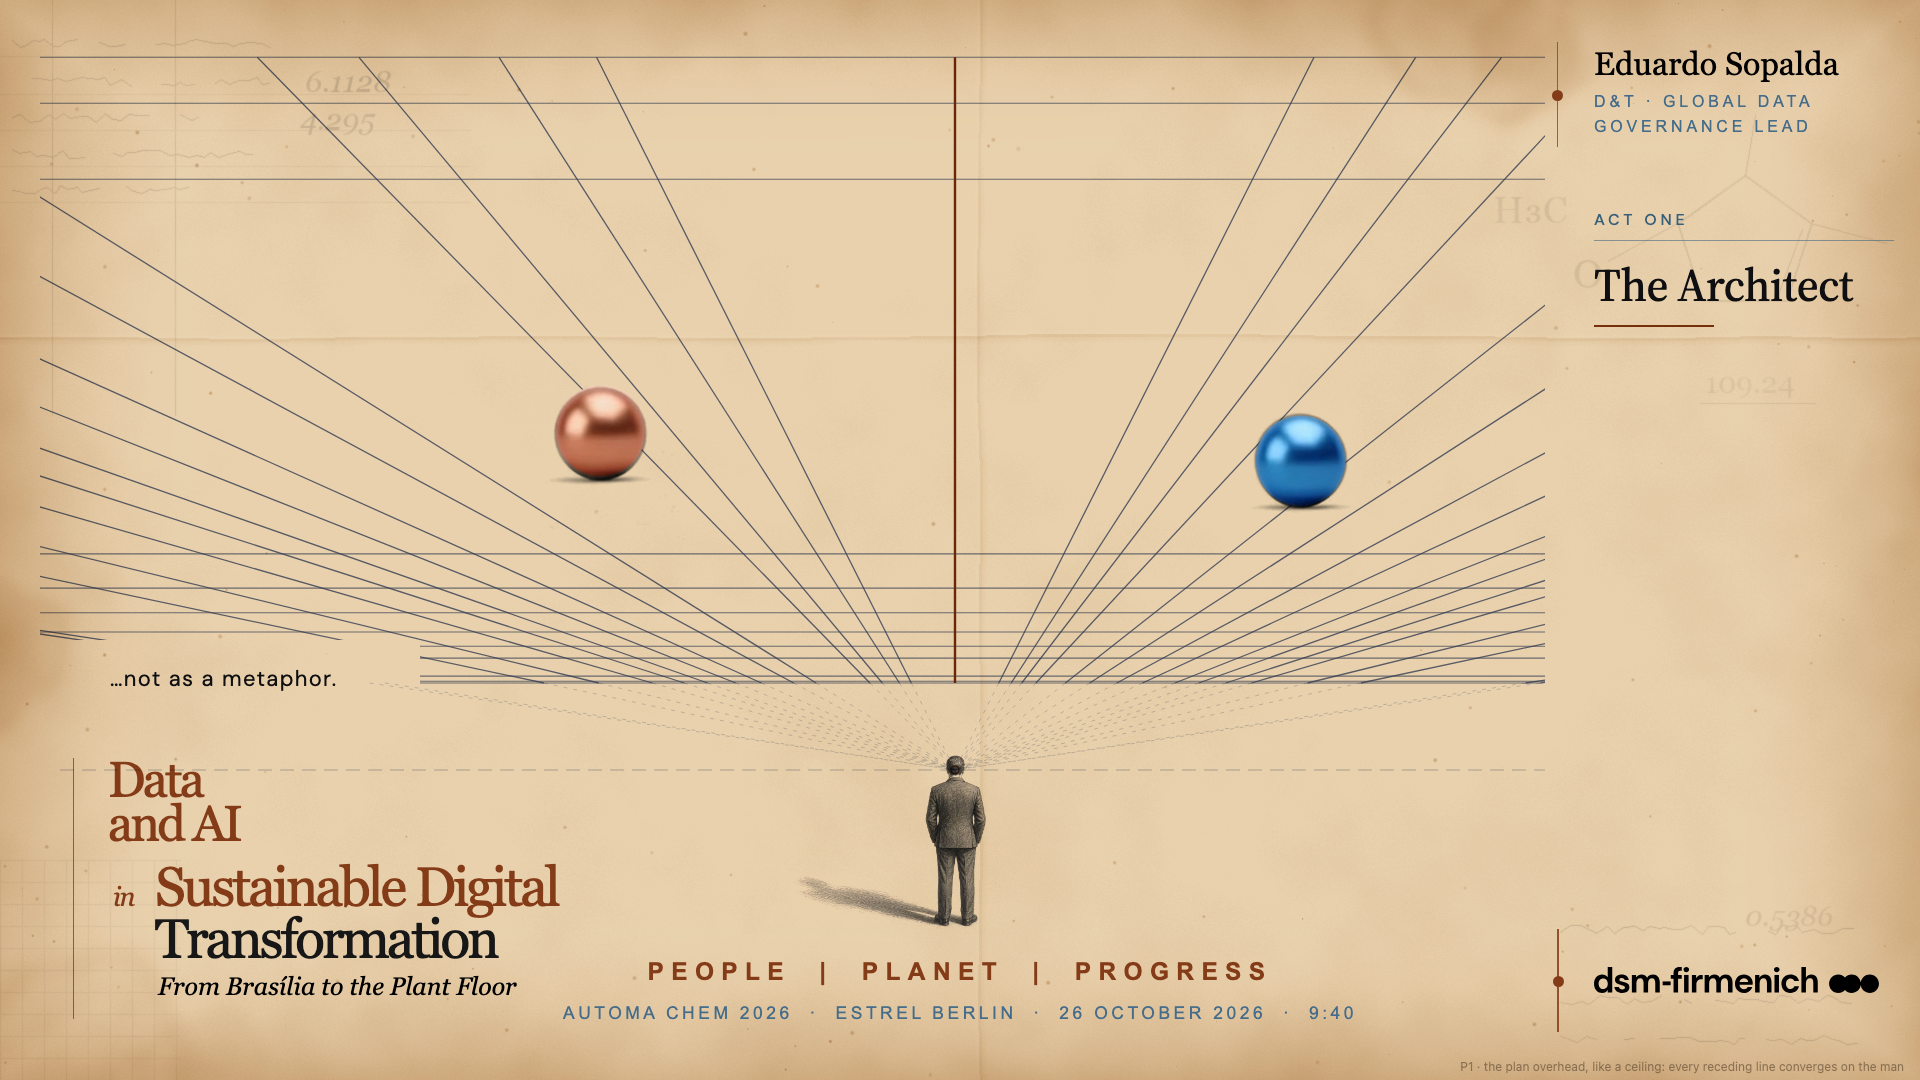
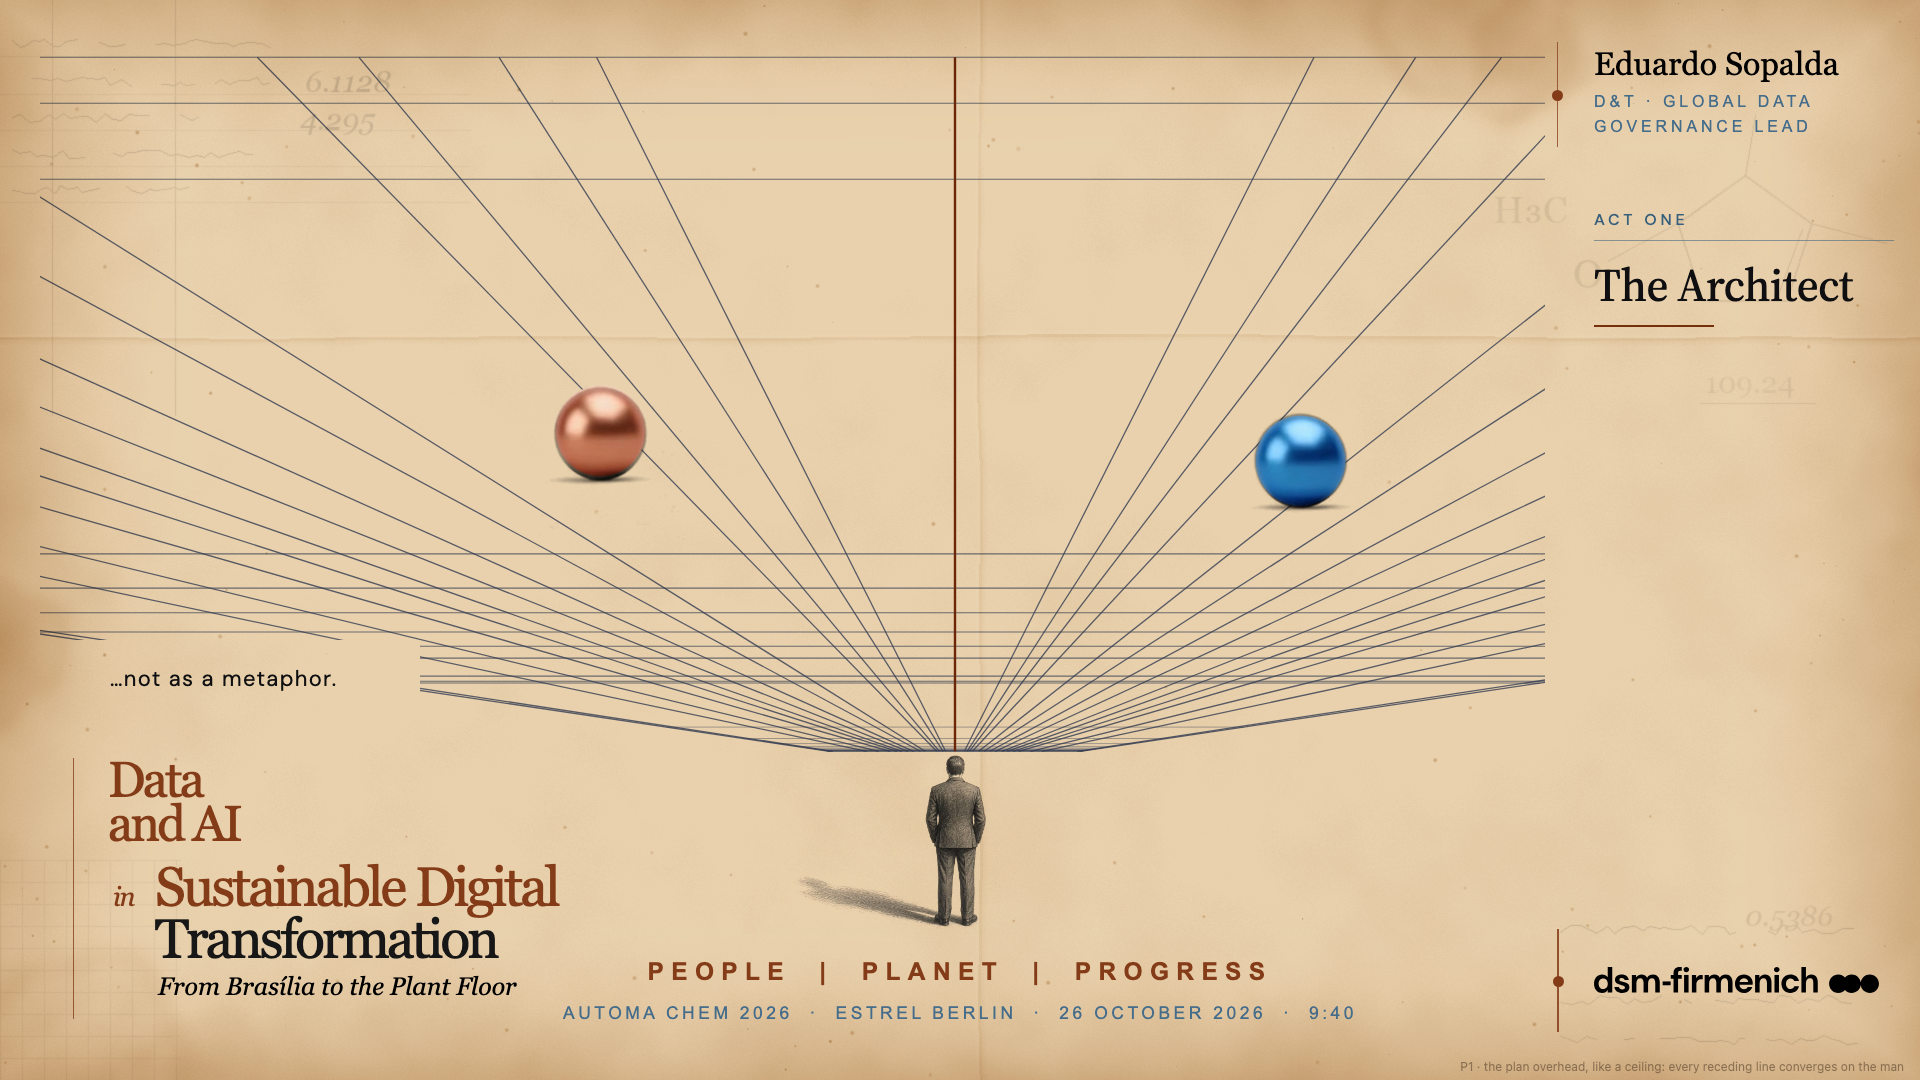
Act 1 still G: every vertical of the plan joined to the man

Changed region(s): [[0.25, 0.6417, 0.75, 0.7333]]

diff --git a/act1/stills.html b/act1/stills.html
@@ -141,21 +141,23 @@ function proj(x, y, phi) {                      // x, y in the plan's 2000 px pr
   const y3 = CAM.yb + h * Math.cos(phi), z3 = CAM.Zw - h * Math.sin(phi);
   return [CAM.vx + CAM.f * Xw / z3, CAM.hy - CAM.f * y3 / z3];
 }
-function persp(deg) {
+function persp(deg, opt = {}) {
   const phi = deg * Math.PI / 180, ink = "#3a4b7a";
+  // The plane runs on past the plan's edge to infinity, so every receding line comes out of the man.
+  // As it swings upright, that run pulls back into the plan's edge.
+  const reach = 4000 * Math.pow(deg / 90, 3);               // how far past the edge (in plan px) the lines continue
+  const far = (x) => proj(x, 1045 + reach, phi);
   let d = "";
   const L = (a, b, w, c, o) => `<line x1="${a[0].toFixed(1)}" y1="${a[1].toFixed(1)}" x2="${b[0].toFixed(1)}" y2="${b[1].toFixed(1)}" stroke="${c}" stroke-width="${w}" opacity="${o}"/>`;
-  for (const x of LM.v) d += L(proj(x, 1045, phi), proj(x, 86, phi), 1.3, ink, 0.8);
-  for (const y of [86, ...LM.h, 1045]) d += L(proj(106, y, phi), proj(1907, y, phi), 1.1, ink, 0.7);
-  d += L(proj(AXIS, 1045, phi), proj(AXIS, 86, phi), 2.4, "#762F0B", 1);
-  // the drawing stays inside the field: left of the right column, above the man
-  // Construction lines, as an architect leaves them: the horizon at his eye, and each receding line
-  // continued (dashed, faint) from the plan's edge down to the vanishing point on him
-  let c = `<line x1="60" y1="${CAM.hy}" x2="1545" y2="${CAM.hy}" stroke="${ink}" stroke-width="1" opacity="0.35" stroke-dasharray="14 8"/>`;
-  c += `<circle cx="${CAM.vx}" cy="${CAM.hy}" r="4" fill="none" stroke="#762F0B" stroke-width="1.4" opacity="0.8"/>`;
-  if (deg > 3) for (const x of LM.v) { const a = proj(x, 1045, phi); c += `<line x1="${a[0].toFixed(1)}" y1="${a[1].toFixed(1)}" x2="${CAM.vx}" y2="${CAM.hy}" stroke="${ink}" stroke-width="0.8" opacity="${(0.3 * Math.min(1, deg / 40)).toFixed(2)}" stroke-dasharray="4 6"/>`; }
-  add(`<svg class="abs ink" width="1920" height="1080" style="left:0;top:0">${c}</svg>`);
-  add(`<svg class="abs ink" width="1920" height="1080" style="left:0;top:0"><defs><clipPath id="field"><path d="M40 0 H1545 V${CAM.hy - 2} H420 V640 H40 Z"/></clipPath></defs><g clip-path="url(#field)">${d}</g></svg>`);
+  for (const x of LM.v) d += L(far(x), proj(x, 86, phi), 1.3, ink, 0.8);
+  if (!opt.raysOnly) for (const y of [86, ...LM.h, 1045]) d += L(proj(106, y, phi), proj(1907, y, phi), 1.1, ink, 0.7);
+  // cross lines out in the run toward him, tightening as they near the horizon
+  if (reach > 1 && !opt.raysOnly) for (let k = 1; k <= 14; k++) { const y = 1045 + reach * (1 - Math.pow(0.72, k)); d += L(proj(106, y, phi), proj(1907, y, phi), 0.9, ink, 0.45); }
+  d += L(far(AXIS), proj(AXIS, 86, phi), 2.4, "#762F0B", 1);
+  // the horizon, at his eye, across the field; it passes behind him
+  if (opt.horizon) d += `<path d="M420 ${CAM.hy - 16} H924 M986 ${CAM.hy - 16} H1545" stroke="#762F0B" stroke-width="1.6" opacity="0.9"/>`;
+  // everything stays in the field and ends at the top of his head
+  add(`<svg class="abs ink" width="1920" height="1080" style="left:0;top:0"><defs><clipPath id="field"><path d="M40 0 H1545 V754 H420 V640 H40 Z"/></clipPath></defs><g clip-path="url(#field)">${d}</g></svg>`);
 }
 
 const note = () => add(`<div class="abs note">…not as a metaphor.</div>`);
@@ -187,6 +189,19 @@ if (s === "P1") { persp(90); column(0.5); sphere("copper", 600, 430, 45); sphere
 if (s === "P2") { persp(55); column(1); sphere("copper", 500, 280, 42); sphere("blue", 1400, 590, 42); note(); cap("P2 · the plane swings down toward upright; the vanishing point climbs away from him"); }
 if (s === "P3") { persp(22); column(1); sphere("copper", ...HOME.copper); sphere("blue", ...HOME.blue); note(); cap("P3 · almost upright: the lines are nearly parallel; the spheres are cornered"); }
 if (s === "P4") { persp(0); column(1); sphere("copper", ...HOME.copper); sphere("blue", ...HOME.blue); note(); cap("P4 · upright: the drawn lines now sit exactly on the plan of still E"); }
+
+if (s === "R1") { persp(90, { raysOnly: true }); sphere("copper", 610, 440, 45); sphere("blue", 1300, 470, 45); note(); cap("R1 · click 2: the rays leave the man"); }
+if (s === "R2") { persp(90, { horizon: true }); column(0.5); sphere("copper", 560, 400, 45); sphere("blue", 1340, 470, 45); note(); cap("R2 · they find the horizon: a line at his eye; the cross lines tighten toward it"); }
+
+if (s === "G") {        // Still E, plus: every vertical line of the plan joined to the man
+  axis(1); plan("all"); labels(); column(2);
+  sphere("copper", ...HOME.copper); sphere("blue", ...HOME.blue); note();
+  const head = [955, 752];
+  let d = "";
+  for (const x of LM.v) { const [X, Y] = F(x, 1045); d += `<line x1="${X.toFixed(1)}" y1="${Y.toFixed(1)}" x2="${head[0]}" y2="${head[1]}" stroke="#3a4b7a" stroke-width="1" opacity="0.75"/>`; }
+  add(`<svg class="abs ink" width="1920" height="1080" style="left:0;top:0">${d}</svg>`);
+  cap("G · every vertical of the plan joined to the man");
+}
 </script>
 </body>
 </html>
